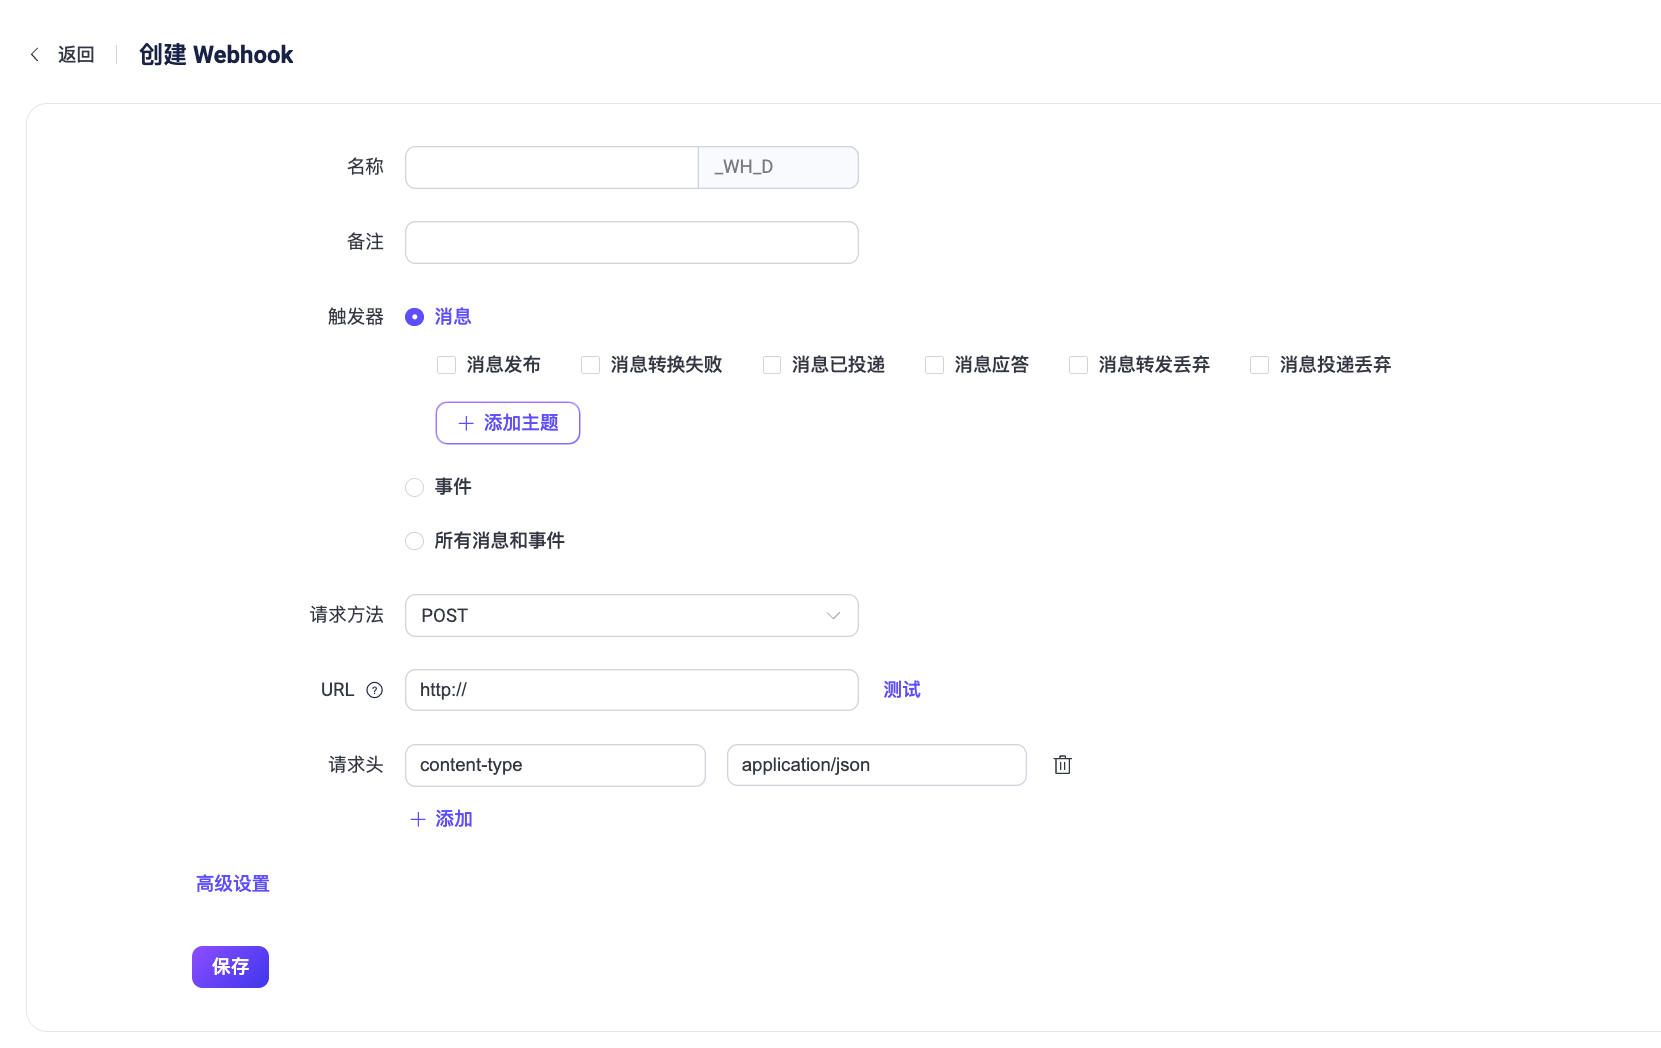
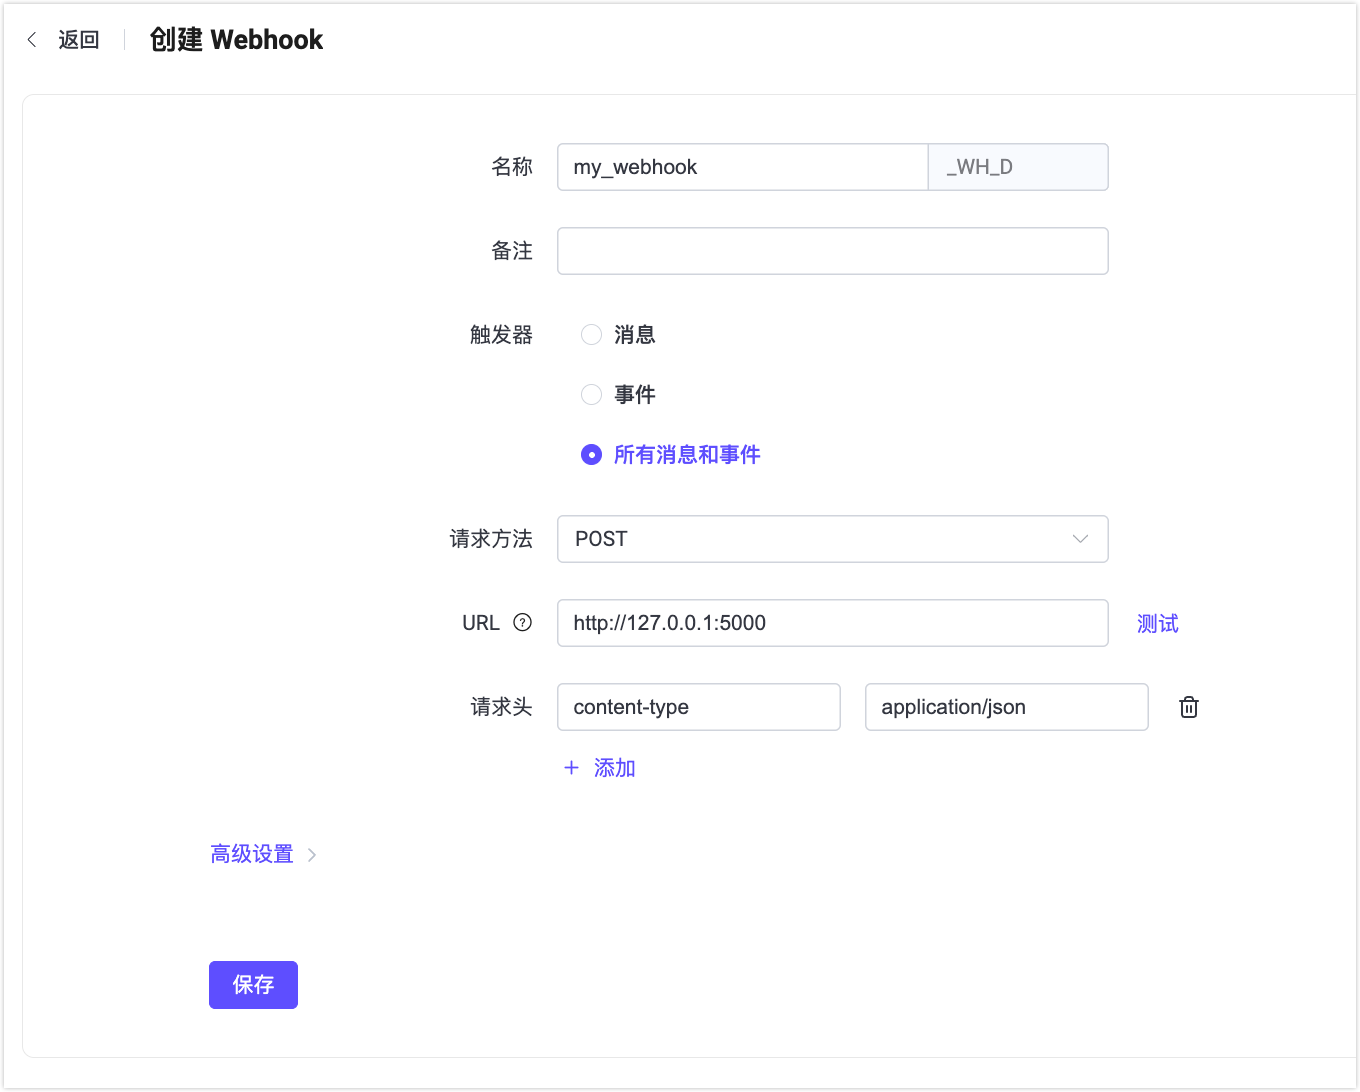
Update steps and screenshot in webhook.md

diff --git a/en_US/data-integration/webhook.md b/en_US/data-integration/webhook.md
@@ -93,15 +93,29 @@ python3 http_server.py
 ### Create Webhook
 
 1. Click **Integration** -> **Webhooks** from the Dashboard left menu.
-2. Click the **Create** button on the page.
-3. Enter Webhook name and notes, which should be a combination of uppercase and lowercase English letters and numbers. Here you can enter `my_webhook`.
-4. Select the trigger according to your needs, in this case, select **All messages and events**. For other options, refer to [How it Works](#how-it-works).
-5. Select the request method as POST, URL as `http://localhost:5000`. You can test if the connection is configured correctly by clicking the **Test** button next to the URL input box, and use the default values for the rest.
-6. Click the **Save** button at the bottom to complete the rule creation.
 
-![EMQX Webhook](./assets/webhook.png)
+2. Click the **Create Webhook** button on the page.
 
-You have now completed the Webhook creation.
+3. Enter a **Name** and optional **Note** for the webhook.
+
+   The name should contain only uppercase or lowercase English letters and numbers. For example: `my_webhook`.
+
+4. Select a **Trigger** based on your requirements.
+
+   In this example, select **All Messages and Events**. For details about other options, see [How it Works](#how-it-works).
+
+5. Configure the request settings:
+
+   - **Method**: `POST`
+   - **URL**: `http://localhost:5000`
+
+   You can verify the connection by clicking **Test** next to the URL field. Leave the other settings with their default values.
+
+6. Click **Save** at the bottom of the page to create the webhook.
+
+   ![EMQX Webhook](./assets/webhook.png)
+
+The webhook is now successfully created.
 
 ### Test Webhook
 
